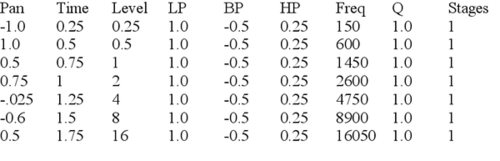
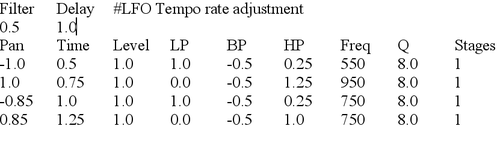
Update help
modified:   help/help.html
	modified:   help/imagenes/dlyfile.png

diff --git a/doc/help/help.html b/doc/help/help.html
@@ -2629,6 +2629,8 @@ morphed into a completely unique effect.</p>
 </p><p>Below is an example text file with explanation of each field and any caveats you may need to
 know:</p><img style="width: 844px; height: 271px;" alt="rakarrack file .dly" src="imagenes/dlyfile.png"><br>
       <br>
+<p><b>Filter</b>:&nbsp; </p>
+<p><b>Delay</b>:&nbsp; </p>
 <p><b>Pan</b>:&nbsp; Ranges from -1.0 to 1.0.&nbsp; less than 0.0 is pan left,
 greater is pan right.&nbsp; 0.0 puts the delay equally to left and
 right.&nbsp; Anything magnitude of +/-1.0 or greater will be treated as
@@ -2637,7 +2639,7 @@ extreme left or right.</p>
 easier way to think of this as a musician is increments of
 measures. "1.0" means 1 measure at the tempo selected in the
 effect GUI. The above indicates a quarter note in the first line,
-and a 1/2 note in the second line.Ranges from 0.0 to 6.0</p>
+and a 1/2 note in the second line.Ranges from -6.0 to 6.0</p>
 <p><b>Level</b>: how loud you want the echo to return.&nbsp; 1.0 returns it
 exactly as loud as it came it.&nbsp; More makes it come back louder,
 less makes it softer.&nbsp; You can use both positive and negative
